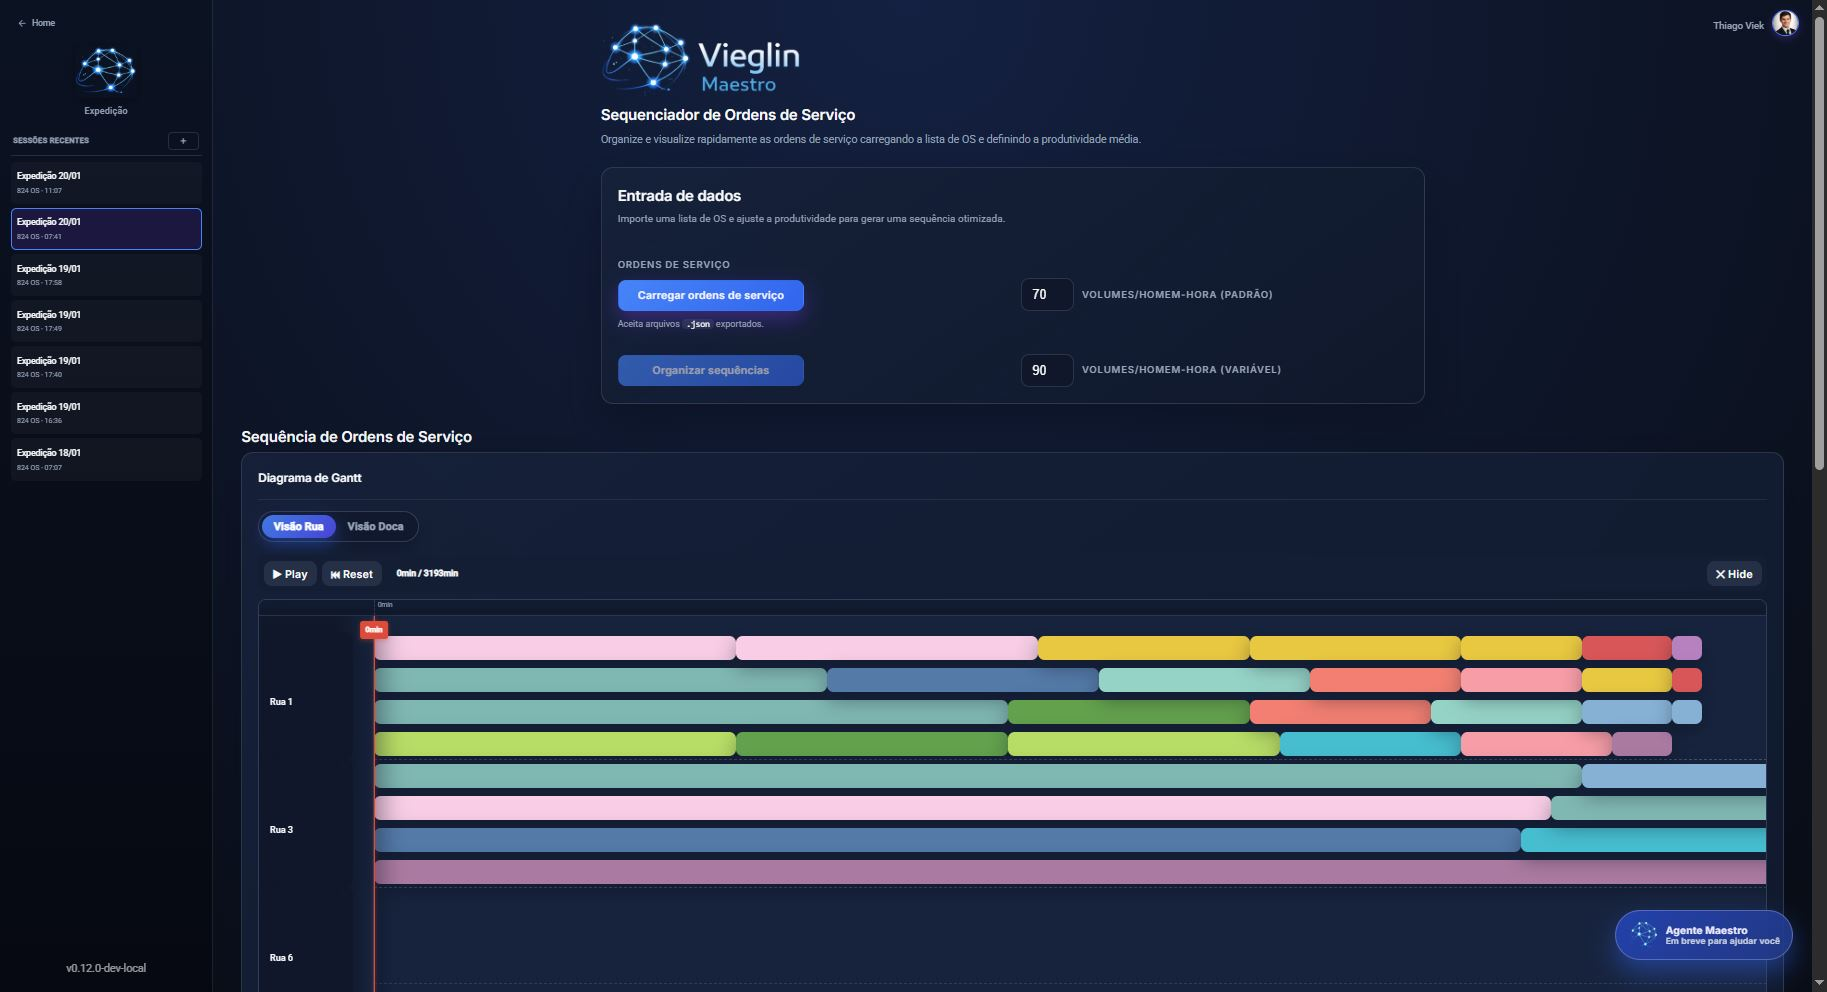
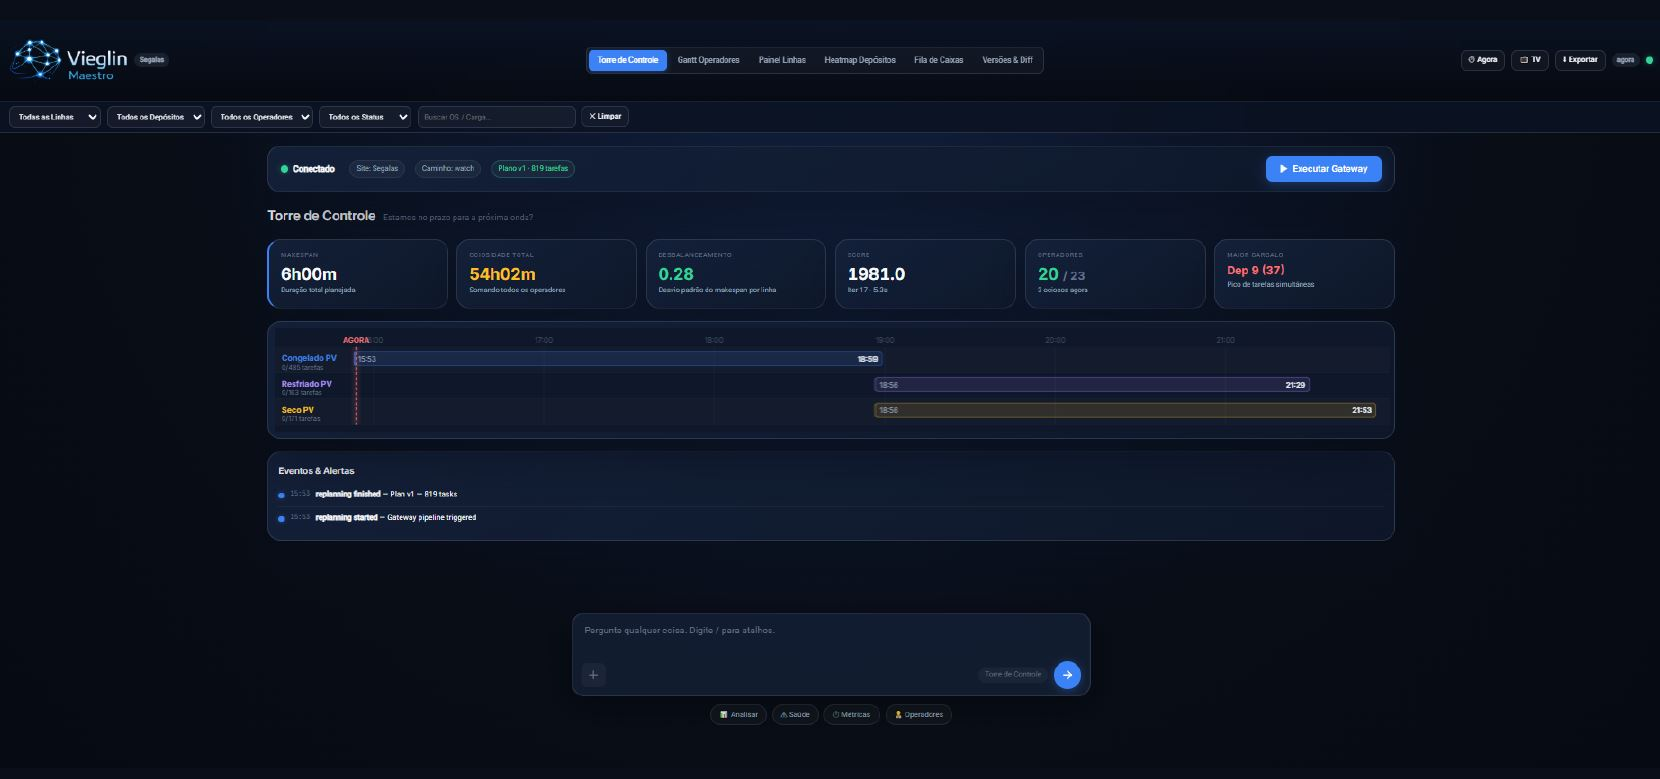
updated BP and added images

diff --git a/index.html b/index.html
@@ -3,7 +3,7 @@
 <head>
     <meta charset="UTF-8">
     <meta name="viewport" content="width=device-width, initial-scale=1.0">
-    <title>Vieglin Maestro® - Sequenciamento de Expedição para Centros de Distribuição</title>
+    <title>Vieglin Maestro® - Sistema Operacional para Centros de Distribuição</title>
     <link rel="icon" type="image/png" href="maestro-agent.png">
     <style>
         * {
@@ -1086,6 +1086,7 @@
         <div class="nav-links" id="navLinks">
             <a href="#how-it-works">Como Funciona</a>
             <a href="#pilot">Piloto</a>
+            <a href="#team">Time</a>
             <a href="#contact" class="nav-cta">Iniciar Piloto</a>
         </div>
         <div class="mobile-menu-toggle" id="menuToggle" onclick="toggleMenu()">
@@ -1113,14 +1114,14 @@
         </video>
         <div class="hero-overlay"></div>
         <div class="hero-content">
-            <h1>Orquestre sua Expedição com <span>Precisão e Controle</span></h1>
+            <h1>O Sistema Operacional de <span>Centros de Distribuição</span></h1>
             <p class="hero-subtitle">
-                Sequenciamento de expedição para centros de distribuição. Vieglin Maestro® lê seus pedidos do WMS, captura suas restrições operacionais e gera a sequência ideal de carregamento respeitando cutoffs, docas e prioridades.
+                Transformamos Centros de Distribuição em sistemas orquestrados por dados e decisões inteligentes. O Maestro® usa Agentes de IA para otimizar a cadeia de processos do seu CD.
             </p>
             <ul class="hero-bullets">
-                <li>Ingere dados via API ou CSV do seu WMS. Funciona com qualquer número de docas.</li>
-                <li>Agente de IA entende suas regras e transforma em sequenciamento otimizado.</li>
-                <li>Gera plano executável com responsável atribuído por ordem de serviço.</li>
+                <li>Integra com WMS, ERP e TMS via gateway proprietário seguro (LGPD compliant).</li>
+                <li>Agentes de IA orquestram processos de separação, recebimento e abastecimento.</li>
+                <li>Gera plano executável com responsável atribuído e explicabilidade completa.</li>
             </ul>
             <a href="#contact" class="hero-cta">Executar Piloto em Shadow Mode</a>
         </div>
@@ -1129,22 +1130,22 @@
     <!-- Problem Section -->
     <section class="problem-section">
         <div class="problem-content">
-            <h2>Por que o Sequenciamento de Expedição Falha Hoje</h2>
+            <h2>Os Desafios dos Centros de Distribuição Hoje</h2>
             <p class="problem-intro">
-                Decisões de sequenciamento manual são tomadas sob pressão de tempo com informações incompletas. Supervisores conciliam cutoffs de transportadoras, disponibilidade de docas, prioridades de backlog e compromissos de SLA em planilhas ou de cabeça.
+                Centros de distribuição enfrentam pressões sistêmicas: escassez de mão de obra, complexidade operacional crescente, sistemas que não se comunicam e volatilidade jurídica constante.
             </p>
             <div class="problem-list">
                 <div class="problem-item">
-                    <p>Embarques perdem janelas de cutoff porque o sequenciamento não considerou horários de coleta das transportadoras</p>
+                    <p><strong>Escassez de mão de obra:</strong> dificuldade para preencher turnos, sobrecarga das equipes e desinteresse de jovens por funções operacionais</p>
                 </div>
                 <div class="problem-item">
-                    <p>Docas ficam ociosas enquanto pedidos formam filas em gargalos</p>
+                    <p><strong>Complexidade operacional:</strong> mais SKUs, pontos de entrega, janelas horárias e variáveis externas sem integração multimodal</p>
                 </div>
                 <div class="problem-item">
-                    <p>Replanejamento leva horas quando uma única restrição muda</p>
+                    <p><strong>Limitações sistêmicas:</strong> múltiplos fornecedores que não se comunicam, planilhas e sistemas obsoletos com inserção manual de dados</p>
                 </div>
                 <div class="problem-item">
-                    <p>Sem responsabilidade clara: quando pedidos atrasam, ninguém sabe quem era o responsável</p>
+                    <p><strong>Volatilidade jurídica:</strong> constantes mudanças nas normas de operação e tributação, criando novos processos e demandas</p>
                 </div>
             </div>
         </div>
@@ -1155,7 +1156,7 @@
         <div class="what-we-do-content">
             <h2>O que o Vieglin Maestro® Faz</h2>
             <p>
-                Vieglin Maestro® é um software de sequenciamento de expedição para centros de distribuição. Ele gera uma representação virtual do seu CD, ingere dados operacionais do seu WMS (via API ou CSV), hospeda um Agente de IA que adapta o planejamento a novas regras e situações operacionais, e executa um motor de otimização que produz uma sequência de expedição viável. Cada ordem de serviço é apontada a um operador responsável. Quando inputs mudam—uma transportadora atrasa, uma doca fica indisponível—o sistema re-executa o sequenciamento em segundos.
+                O Maestro® é a inteligência que orquestra os processos do Centro de Distribuição para que tudo aconteça no tempo certo, no lugar certo e sem fricção. Nossa plataforma é composta por três camadas: <strong>Engine Vieglin</strong> (fábrica de agentes de IA), <strong>Maestro Suite</strong> (aplicações para separação, recebimento, abastecimento e carregamento) e <strong>Data Lakehouse</strong> (integração de dados com WMS, ERP e TMS via gateway proprietário). Quando inputs mudam, o sistema re-executa o sequenciamento em segundos.
             </p>
         </div>
     </section>
@@ -1210,32 +1211,32 @@
         </div>
     </section>
 
-    <!-- Value & KPIs Section -->
+    <!-- POC Results Section -->
     <section class="stats">
         <div class="stats-header">
-            <h3>Valor & KPIs</h3>
-            <p>Cada afirmação vinculada a um mecanismo e KPI mensurável. Validado durante piloto em shadow mode.</p>
+            <h3>Resultados Comprovados em POC</h3>
+            <p>50 dias de testes em operação real. Mesma quantidade de OS, cargas, operadores e produtividade entre real e simulado.</p>
         </div>
         <div class="stats-grid">
             <div class="stat-card">
+                <div class="stat-icon">💰</div>
+                <div class="stat-label">Economia Significativa</div>
+                <div class="stat-desc">Redução expressiva de custos operacionais com hora-homem e atrasos de carga</div>
+            </div>
+            <div class="stat-card">
                 <div class="stat-icon">⏱</div>
-                <div class="stat-label">Tempo de Planejamento</div>
-                <div class="stat-desc">Sequenciamento automatizado substitui trabalho manual em planilhas</div>
+                <div class="stat-label">Tempo Total Reduzido</div>
+                <div class="stat-desc">Redução consistente do tempo total de trabalho por turno</div>
             </div>
             <div class="stat-card">
-                <div class="stat-icon">📦</div>
-                <div class="stat-label">Embarques Atrasados</div>
-                <div class="stat-desc">Sequenciamento respeita cutoffs de transportadoras como restrições rígidas</div>
+                <div class="stat-icon">👷</div>
+                <div class="stat-label">Menos Ociosidade</div>
+                <div class="stat-desc">Redução de ociosidade de operadores com balanceamento inteligente</div>
             </div>
             <div class="stat-card">
-                <div class="stat-icon">🚛</div>
-                <div class="stat-label">Utilização de Docas</div>
-                <div class="stat-desc">Otimização minimiza janelas ociosas entre carregamentos</div>
-            </div>
-            <div class="stat-card">
-                <div class="stat-icon">🔄</div>
-                <div class="stat-label">Esforço de Replanejamento</div>
-                <div class="stat-desc">Re-executa sequenciamento em segundos quando inputs mudam</div>
+                <div class="stat-icon">⚖</div>
+                <div class="stat-label">Conformidade CLT</div>
+                <div class="stat-desc">Redução de violações CLT incluindo pausas Art. 253</div>
             </div>
         </div>
     </section>
@@ -1314,11 +1315,22 @@
     <!-- Dashboard Preview -->
     <section class="dashboard-preview">
         <div class="section-header">
-            <h2>Outputs: O que os Operadores Veem</h2>
-            <p>Sequência de expedição com doca atribuída, janela de tempo, transportadora, responsável e painel de explicabilidade.</p>
+            <h2>Visão Geral da Plataforma</h2>
+            <p>Interface intuitiva para visualizar sequenciamento, acompanhar operações em tempo real e interagir com o Agente de IA.</p>
         </div>
-        <div class="dashboard-container">
-            <img src="Dashboard.JPG" alt="Vieglin Maestro Dashboard - Sequenciamento de Expedição">
+        <div style="display: grid; grid-template-columns: repeat(2, 1fr); gap: 20px; max-width: 1200px; margin: 0 auto;">
+            <div class="dashboard-container">
+                <img src="Home.JPG" alt="Vieglin Maestro - Dashboard Principal">
+            </div>
+            <div class="dashboard-container">
+                <img src="Home2.JPG" alt="Vieglin Maestro - Visão de Operações">
+            </div>
+            <div class="dashboard-container">
+                <img src="Home3.JPG" alt="Vieglin Maestro - Acompanhamento em Tempo Real">
+            </div>
+            <div class="dashboard-container">
+                <img src="Home4.JPG" alt="Vieglin Maestro - Painel de Controle">
+            </div>
         </div>
     </section>
 
@@ -1366,32 +1378,57 @@
         <div class="for-whom-content">
             <div class="section-header">
                 <h2>Para Quem</h2>
-                <p>Vieglin Maestro® é construído para centros de distribuição que gerenciam expedição através de múltiplas docas.</p>
+                <p>Vieglin Maestro® é construído para centros de distribuição com alto volume e operações complexas.</p>
             </div>
             <div class="for-whom-grid">
                 <div class="for-whom-card">
-                    <h3>Perfis de CD</h3>
+                    <h3>Cliente Ideal</h3>
                     <ul>
-                        <li>Gerenciam expedição através de múltiplas docas</li>
-                        <li>Enfrentam dificuldades com sequenciamento manual sob pressão de tempo</li>
-                        <li>Precisam respeitar cutoffs de transportadoras, SLAs e prioridades variáveis</li>
-                        <li>Querem responsabilidade clara e explicabilidade para cada ordem de serviço</li>
+                        <li>Centros de distribuição com alto volume de operações</li>
+                        <li>Food Service e grandes redes de distribuição</li>
+                        <li>Condomínios logísticos e E-commerce</li>
+                        <li>Transportadoras com armazenagem e redes de varejo</li>
                     </ul>
                 </div>
                 <div class="for-whom-card">
-                    <h3>Stakeholders</h3>
+                    <h3>Valor por Stakeholder</h3>
                     <ul>
-                        <li>Gerentes de CD, Supervisores de Expedição</li>
-                        <li>Gerentes de Operações, Líderes de Melhoria Contínua</li>
-                        <li>Stakeholders de TI/WMS avaliando integrações leves</li>
+                        <li><strong>C-Level/Diretores:</strong> Redução do custo operacional, aumento do ROI, redução do risco trabalhista</li>
+                        <li><strong>Gerentes:</strong> Planejamento estratégico, aumento da eficiência, eliminação de gargalos</li>
+                        <li><strong>Coordenadores:</strong> Balanceamento da demanda, visibilidade de produtividade, acompanhamento de metas</li>
+                        <li><strong>Operadores:</strong> Distribuição imparcial da demanda, redução da sobrecarga, conformidade com legislação</li>
                     </ul>
                 </div>
             </div>
         </div>
     </section>
 
-    <!-- Example Scenarios -->
+    <!-- Competitive Advantage Section -->
     <section class="scenarios-section">
+        <div class="section-header">
+            <h2>Vantagem Competitiva: Maestro vs WMS</h2>
+            <p>Nossa abordagem combina visão estratégica, execução criativa e otimização orientada por dados.</p>
+        </div>
+        <div class="scenarios-grid">
+            <div class="scenario-card">
+                <h3>O que o Maestro faz que o WMS não faz</h3>
+                <h4>Orquestração em Tempo Real</h4>
+                <p>Orquestração de docas e filas em tempo real. WMSs tradicionais (Protheus, Winthor, Oracle Netsuite, Senior) não oferecem essa capacidade.</p>
+                <h4>Repriorização Dinâmica</h4>
+                <p>Repriorização dinâmica conforme eventos operacionais. O sistema adapta automaticamente quando condições mudam.</p>
+            </div>
+            <div class="scenario-card">
+                <h3>Capacidades Únicas</h3>
+                <h4>Balanceamento de Carga</h4>
+                <p>Balanceamento inteligente de carga de trabalho das equipes, garantindo distribuição justa e conformidade com legislação trabalhista.</p>
+                <h4>Decisão Operacional em Tempo Real</h4>
+                <p>Motor de decisão que analisa e otimiza continuamente, diferente de sistemas que apenas registram e reportam.</p>
+            </div>
+        </div>
+    </section>
+
+    <!-- Example Scenarios -->
+    <section class="scenarios-section" style="background: rgba(15, 30, 50, 0.5);">
         <div class="section-header">
             <h2>Cenários de Exemplo</h2>
             <p>Veja como a Vieglin lida com desafios operacionais reais.</p>
@@ -1414,33 +1451,33 @@
         </div>
     </section>
 
-    <!-- Roadmap Section -->
-    <section class="roadmap-section">
-        <div class="roadmap-content">
+    <!-- Pricing Section -->
+    <section class="for-whom">
+        <div class="for-whom-content">
             <div class="section-header">
-                <h2>Roadmap</h2>
-                <p>Onde estamos e para onde vamos. Capacidades futuras claramente identificadas.</p>
+                <h2>Planos</h2>
+                <p>Precificação baseada em valor operacional, indexada à complexidade da sua operação. Entre em contato para valores.</p>
             </div>
-            <div class="roadmap-grid">
-                <div class="roadmap-card current">
-                    <div class="phase">Agora</div>
-                    <h4>Sequenciamento de Expedição</h4>
-                    <p>Agente de IA + otimização para sequenciamento de expedição</p>
+            <div class="roadmap-grid" style="grid-template-columns: repeat(4, 1fr); max-width: 1100px; margin: 40px auto 0;">
+                <div class="roadmap-card">
+                    <div class="phase">Local</div>
+                    <h4>1-10 docas</h4>
+                    <p>Operações locais de pequeno porte</p>
                 </div>
-                <div class="roadmap-card future">
-                    <div class="phase">Próximo</div>
-                    <h4>Integração Multi-Sistema</h4>
-                    <p>Conectividade TMS, YMS, WMS, ERP, etc.</p>
+                <div class="roadmap-card">
+                    <div class="phase">Regional</div>
+                    <h4>11-30 docas</h4>
+                    <p>Operações regionais de médio porte</p>
                 </div>
-                <div class="roadmap-card future">
-                    <div class="phase">Depois</div>
-                    <h4>Orquestração Cross-Funcional e Logística 4.0</h4>
-                    <p>Coordenação inbound + outbound + Planejamento de Carregamento + cross-docking</p>
+                <div class="roadmap-card">
+                    <div class="phase">Estadual</div>
+                    <h4>31-50 docas</h4>
+                    <p>Operações estaduais de grande porte</p>
                 </div>
-                <div class="roadmap-card future">
-                    <div class="phase">Futuro</div>
-                    <h4>Gêmeos Digitais e Agentes de Controle</h4>
-                    <p>Simulação e planejamento de cenários com gêmeos digitais e controle de operações com sistemas multi-agênticos</p>
+                <div class="roadmap-card">
+                    <div class="phase">Nacional</div>
+                    <h4>51+ docas</h4>
+                    <p>Operações nacionais e multi-site</p>
                 </div>
             </div>
         </div>
@@ -1502,10 +1539,44 @@
         </form>
     </section>
 
+    <!-- Team Section -->
+    <section class="for-whom" id="team">
+        <div class="for-whom-content">
+            <div class="section-header">
+                <h2>Time</h2>
+                <p>Co-fundadores com experiência complementar em tecnologia e negócios.</p>
+            </div>
+            <div class="for-whom-grid">
+                <div class="for-whom-card" style="text-align: center;">
+                    <img src="ThiagoViek.JPG" alt="Thiago Viek" style="width: 150px; height: 150px; border-radius: 50%; object-fit: cover; margin-bottom: 20px; border: 3px solid rgba(96, 165, 250, 0.3);">
+                    <h3>Thiago Viek</h3>
+                    <p style="color: #60a5fa; margin-bottom: 16px;">Co-fundador Técnico</p>
+                    <ul style="text-align: left;">
+                        <li>Engenheiro Mecânico / UFSC</li>
+                        <li>Senior AI Engineer e Tech Lead na Loka Inc. (San Francisco, EUA)</li>
+                        <li>Arquiteto de Soluções AWS</li>
+                        <li>8 anos de experiência com IA</li>
+                    </ul>
+                </div>
+                <div class="for-whom-card" style="text-align: center;">
+                    <img src="ThomasKoglin.JPG" alt="Thomas Koglin" style="width: 150px; height: 150px; border-radius: 50%; object-fit: cover; margin-bottom: 20px; border: 3px solid rgba(96, 165, 250, 0.3);">
+                    <h3>Thomas Koglin</h3>
+                    <p style="color: #60a5fa; margin-bottom: 16px;">Co-fundador Comercial</p>
+                    <ul style="text-align: left;">
+                        <li>Bacharel em Direito / FURB</li>
+                        <li>Gerente de contas</li>
+                        <li>Consultor financeiro</li>
+                        <li>Experiência em vendas B2B e relacionamento com clientes</li>
+                    </ul>
+                </div>
+            </div>
+        </div>
+    </section>
+
     <footer>
         <div class="footer-content">
             <div class="footer-info">
-                <p><a href="mailto:admin@vieglin.com">admin@vieglin.com</a></p>
+                <p><a href="tel:+5547988640960">+55 (47) 98864-0960</a> | <a href="mailto:admin@vieglin.com">admin@vieglin.com</a></p>
                 <p>Rua Amazonas 2011, Sala 1, Blumenau SC 89021001</p>
             </div>
         </div>
